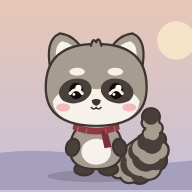
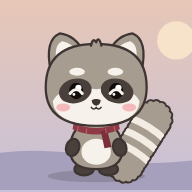
꼬리를 인형처럼 통통한 줄무늬 꼬리로
털색과 크림색 줄무늬가 번갈아 들어간 굵은 원통형 꼬리, 보송한 가장자리.

Claude-Session: https://claude.ai/code/session_018356KYRaA4nVB9yHaTF6Rt

Changed region(s): [[0.5625, 0.5, 0.9062, 0.9688]]

diff --git a/index.html b/index.html
@@ -123,7 +123,7 @@ h2{font-family:var(--font-display);font-weight:400;font-size:20px;margin:0;lette
 
 /* raccoon motion */
 #racc .body-g{transform-origin:100px 188px;animation:breathe 3.6s ease-in-out infinite}
-#racc .tail-g{transform-origin:122px 176px;animation:sway 4s ease-in-out infinite}
+#racc .tail-g{transform-origin:128px 178px;animation:sway 4s ease-in-out infinite}
 #racc.hop{animation:hop .55s cubic-bezier(.3,1.6,.5,1)}
 #racc .eyes-happy{display:none}
 #racc.happy .eyes-happy{display:inline}
@@ -170,8 +170,12 @@ h2{font-family:var(--font-display);font-weight:400;font-size:20px;margin:0;lette
       <ellipse cx="160" cy="214" rx="56" ry="7" fill="#000" opacity=".14"/>
       <g transform="translate(60 24)"><g id="racc">
         <g class="tail-g">
-          <g fill="#3E3532"><circle cx="120.9" cy="171.1" r="8.2"/><circle cx="120.0" cy="176.0" r="9.8"/><circle cx="125.5" cy="183.7" r="10.2"/><circle cx="126.3" cy="177.0" r="12.5"/><circle cx="132.3" cy="169.4" r="11.7"/><circle cx="132.1" cy="177.4" r="14.3"/><circle cx="138.0" cy="186.5" r="12.9"/><circle cx="137.4" cy="177.4" r="15.9"/><circle cx="140.4" cy="167.0" r="13.8"/><circle cx="142.2" cy="176.8" r="17.1"/><circle cx="150.0" cy="185.6" r="14.5"/><circle cx="146.6" cy="175.6" r="17.9"/><circle cx="145.5" cy="164.3" r="14.9"/><circle cx="150.6" cy="173.9" r="18.4"/><circle cx="160.7" cy="180.5" r="15.0"/><circle cx="154.0" cy="171.7" r="18.6"/><circle cx="149.0" cy="161.7" r="14.8"/><circle cx="157.0" cy="169.0" r="18.4"/><circle cx="168.3" cy="171.4" r="14.4"/><circle cx="159.5" cy="165.7" r="17.9"/><circle cx="152.5" cy="157.9" r="13.7"/><circle cx="161.6" cy="161.9" r="17.0"/><circle cx="171.8" cy="160.1" r="12.8"/><circle cx="163.1" cy="157.6" r="15.7"/><circle cx="156.4" cy="151.4" r="11.6"/><circle cx="164.2" cy="152.8" r="14.2"/><circle cx="171.5" cy="147.8" r="10.1"/><circle cx="164.9" cy="147.4" r="12.3"/><circle cx="160.1" cy="141.5" r="8.2"/><circle cx="165.1" cy="141.4" r="9.8"/><circle cx="169.7" cy="134.6" r="8.2"/><circle cx="164.8" cy="135.0" r="9.8"/><circle cx="159.1" cy="128.7" r="8.2"/><circle cx="164.0" cy="128.0" r="9.8"/><circle cx="163.0" cy="122.0" r="11.6"/></g>
-          <g><circle cx="120.9" cy="171.1" r="5.6" fill="#A79C90"/><circle cx="120.0" cy="176.0" r="7.2" fill="#A79C90"/><circle cx="125.5" cy="183.7" r="7.6" fill="#A79C90"/><circle cx="126.3" cy="177.0" r="9.9" fill="#A79C90"/><circle cx="132.3" cy="169.4" r="9.1" fill="#A79C90"/><circle cx="132.1" cy="177.4" r="11.7" fill="#A79C90"/><circle cx="138.0" cy="186.5" r="10.3" fill="#A79C90"/><circle cx="137.4" cy="177.4" r="13.3" fill="#A79C90"/><circle cx="140.4" cy="167.0" r="11.2" fill="#4A403B"/><circle cx="142.2" cy="176.8" r="14.5" fill="#4A403B"/><circle cx="150.0" cy="185.6" r="11.9" fill="#4A403B"/><circle cx="146.6" cy="175.6" r="15.3" fill="#4A403B"/><circle cx="145.5" cy="164.3" r="12.3" fill="#A79C90"/><circle cx="150.6" cy="173.9" r="15.8" fill="#A79C90"/><circle cx="160.7" cy="180.5" r="12.4" fill="#A79C90"/><circle cx="154.0" cy="171.7" r="16.0" fill="#A79C90"/><circle cx="149.0" cy="161.7" r="12.2" fill="#4A403B"/><circle cx="157.0" cy="169.0" r="15.8" fill="#4A403B"/><circle cx="168.3" cy="171.4" r="11.8" fill="#4A403B"/><circle cx="159.5" cy="165.7" r="15.3" fill="#4A403B"/><circle cx="152.5" cy="157.9" r="11.1" fill="#A79C90"/><circle cx="161.6" cy="161.9" r="14.4" fill="#A79C90"/><circle cx="171.8" cy="160.1" r="10.2" fill="#A79C90"/><circle cx="163.1" cy="157.6" r="13.1" fill="#A79C90"/><circle cx="156.4" cy="151.4" r="9.0" fill="#4A403B"/><circle cx="164.2" cy="152.8" r="11.6" fill="#4A403B"/><circle cx="171.5" cy="147.8" r="7.5" fill="#4A403B"/><circle cx="164.9" cy="147.4" r="9.7" fill="#4A403B"/><circle cx="160.1" cy="141.5" r="5.6" fill="#A79C90"/><circle cx="165.1" cy="141.4" r="7.2" fill="#A79C90"/><circle cx="169.7" cy="134.6" r="5.6" fill="#A79C90"/><circle cx="164.8" cy="135.0" r="7.2" fill="#A79C90"/><circle cx="159.1" cy="128.7" r="5.6" fill="#A79C90"/><circle cx="164.0" cy="128.0" r="7.2" fill="#A79C90"/><circle cx="163.0" cy="122.0" r="9.0" fill="#4A403B"/></g>
+          <g transform="translate(150 150) rotate(-58)">
+            <clipPath id="tailclip6"><circle cx="-31.0" cy="0.0" r="18.0"/><circle cx="-28.0" cy="0.0" r="18.0"/><circle cx="-25.0" cy="0.0" r="18.0"/><circle cx="-22.0" cy="0.0" r="18.0"/><circle cx="-19.0" cy="0.0" r="18.0"/><circle cx="-16.0" cy="0.0" r="18.0"/><circle cx="-13.0" cy="0.0" r="18.0"/><circle cx="-10.0" cy="0.0" r="18.0"/><circle cx="-7.0" cy="0.0" r="18.0"/><circle cx="-4.0" cy="0.0" r="18.0"/><circle cx="-1.0" cy="0.0" r="18.0"/><circle cx="2.0" cy="0.0" r="18.0"/><circle cx="5.0" cy="0.0" r="18.0"/><circle cx="8.0" cy="0.0" r="18.0"/><circle cx="11.0" cy="0.0" r="18.0"/><circle cx="14.0" cy="0.0" r="18.0"/><circle cx="17.0" cy="0.0" r="18.0"/><circle cx="20.0" cy="0.0" r="18.0"/><circle cx="23.0" cy="0.0" r="18.0"/><circle cx="26.0" cy="0.0" r="18.0"/><circle cx="29.0" cy="0.0" r="18.0"/><circle cx="-31.5" cy="16.0" r="4.2"/><circle cx="-30.9" cy="-16.0" r="4.2"/><circle cx="-26.3" cy="16.0" r="4.2"/><circle cx="-25.8" cy="-16.0" r="4.2"/><circle cx="-20.7" cy="16.0" r="4.2"/><circle cx="-21.9" cy="-16.0" r="4.2"/><circle cx="-17.0" cy="16.0" r="4.2"/><circle cx="-15.3" cy="-16.0" r="4.2"/><circle cx="-11.5" cy="16.0" r="4.2"/><circle cx="-11.5" cy="-16.0" r="4.2"/><circle cx="-5.0" cy="16.0" r="4.2"/><circle cx="-6.1" cy="-16.0" r="4.2"/><circle cx="-0.3" cy="16.0" r="4.2"/><circle cx="-1.0" cy="-16.0" r="4.2"/><circle cx="4.3" cy="16.0" r="4.2"/><circle cx="3.3" cy="-16.0" r="4.2"/><circle cx="9.3" cy="16.0" r="4.2"/><circle cx="9.7" cy="-16.0" r="4.2"/><circle cx="14.0" cy="16.0" r="4.2"/><circle cx="14.5" cy="-16.0" r="4.2"/><circle cx="19.3" cy="16.0" r="4.2"/><circle cx="18.1" cy="-16.0" r="4.2"/><circle cx="24.5" cy="16.0" r="4.2"/><circle cx="24.2" cy="-16.0" r="4.2"/><circle cx="28.6" cy="16.0" r="4.2"/><circle cx="28.1" cy="-16.0" r="4.2"/><circle cx="-31.0" cy="16.0" r="4.2"/><circle cx="31.0" cy="16.0" r="4.2"/><circle cx="-37.1" cy="14.8" r="4.2"/><circle cx="37.1" cy="14.8" r="4.2"/><circle cx="-42.3" cy="11.3" r="4.2"/><circle cx="42.3" cy="11.3" r="4.2"/><circle cx="-45.8" cy="6.1" r="4.2"/><circle cx="45.8" cy="6.1" r="4.2"/><circle cx="-47.0" cy="0.0" r="4.2"/><circle cx="47.0" cy="0.0" r="4.2"/><circle cx="-45.8" cy="-6.1" r="4.2"/><circle cx="45.8" cy="-6.1" r="4.2"/><circle cx="-42.3" cy="-11.3" r="4.2"/><circle cx="42.3" cy="-11.3" r="4.2"/><circle cx="-37.1" cy="-14.8" r="4.2"/><circle cx="37.1" cy="-14.8" r="4.2"/><circle cx="-31.0" cy="-16.0" r="4.2"/><circle cx="31.0" cy="-16.0" r="4.2"/></clipPath>
+            <g fill="#3E3532"><circle cx="-31.0" cy="0.0" r="20.4"/><circle cx="-28.0" cy="0.0" r="20.4"/><circle cx="-25.0" cy="0.0" r="20.4"/><circle cx="-22.0" cy="0.0" r="20.4"/><circle cx="-19.0" cy="0.0" r="20.4"/><circle cx="-16.0" cy="0.0" r="20.4"/><circle cx="-13.0" cy="0.0" r="20.4"/><circle cx="-10.0" cy="0.0" r="20.4"/><circle cx="-7.0" cy="0.0" r="20.4"/><circle cx="-4.0" cy="0.0" r="20.4"/><circle cx="-1.0" cy="0.0" r="20.4"/><circle cx="2.0" cy="0.0" r="20.4"/><circle cx="5.0" cy="0.0" r="20.4"/><circle cx="8.0" cy="0.0" r="20.4"/><circle cx="11.0" cy="0.0" r="20.4"/><circle cx="14.0" cy="0.0" r="20.4"/><circle cx="17.0" cy="0.0" r="20.4"/><circle cx="20.0" cy="0.0" r="20.4"/><circle cx="23.0" cy="0.0" r="20.4"/><circle cx="26.0" cy="0.0" r="20.4"/><circle cx="29.0" cy="0.0" r="20.4"/><circle cx="-31.5" cy="16.0" r="6.6"/><circle cx="-30.9" cy="-16.0" r="6.6"/><circle cx="-26.3" cy="16.0" r="6.6"/><circle cx="-25.8" cy="-16.0" r="6.6"/><circle cx="-20.7" cy="16.0" r="6.6"/><circle cx="-21.9" cy="-16.0" r="6.6"/><circle cx="-17.0" cy="16.0" r="6.6"/><circle cx="-15.3" cy="-16.0" r="6.6"/><circle cx="-11.5" cy="16.0" r="6.6"/><circle cx="-11.5" cy="-16.0" r="6.6"/><circle cx="-5.0" cy="16.0" r="6.6"/><circle cx="-6.1" cy="-16.0" r="6.6"/><circle cx="-0.3" cy="16.0" r="6.6"/><circle cx="-1.0" cy="-16.0" r="6.6"/><circle cx="4.3" cy="16.0" r="6.6"/><circle cx="3.3" cy="-16.0" r="6.6"/><circle cx="9.3" cy="16.0" r="6.6"/><circle cx="9.7" cy="-16.0" r="6.6"/><circle cx="14.0" cy="16.0" r="6.6"/><circle cx="14.5" cy="-16.0" r="6.6"/><circle cx="19.3" cy="16.0" r="6.6"/><circle cx="18.1" cy="-16.0" r="6.6"/><circle cx="24.5" cy="16.0" r="6.6"/><circle cx="24.2" cy="-16.0" r="6.6"/><circle cx="28.6" cy="16.0" r="6.6"/><circle cx="28.1" cy="-16.0" r="6.6"/><circle cx="-31.0" cy="16.0" r="6.6"/><circle cx="31.0" cy="16.0" r="6.6"/><circle cx="-37.1" cy="14.8" r="6.6"/><circle cx="37.1" cy="14.8" r="6.6"/><circle cx="-42.3" cy="11.3" r="6.6"/><circle cx="42.3" cy="11.3" r="6.6"/><circle cx="-45.8" cy="6.1" r="6.6"/><circle cx="45.8" cy="6.1" r="6.6"/><circle cx="-47.0" cy="0.0" r="6.6"/><circle cx="47.0" cy="0.0" r="6.6"/><circle cx="-45.8" cy="-6.1" r="6.6"/><circle cx="45.8" cy="-6.1" r="6.6"/><circle cx="-42.3" cy="-11.3" r="6.6"/><circle cx="42.3" cy="-11.3" r="6.6"/><circle cx="-37.1" cy="-14.8" r="6.6"/><circle cx="37.1" cy="-14.8" r="6.6"/><circle cx="-31.0" cy="-16.0" r="6.6"/><circle cx="31.0" cy="-16.0" r="6.6"/></g>
+            <g fill="#A79C90"><circle cx="-31.0" cy="0.0" r="18.0"/><circle cx="-28.0" cy="0.0" r="18.0"/><circle cx="-25.0" cy="0.0" r="18.0"/><circle cx="-22.0" cy="0.0" r="18.0"/><circle cx="-19.0" cy="0.0" r="18.0"/><circle cx="-16.0" cy="0.0" r="18.0"/><circle cx="-13.0" cy="0.0" r="18.0"/><circle cx="-10.0" cy="0.0" r="18.0"/><circle cx="-7.0" cy="0.0" r="18.0"/><circle cx="-4.0" cy="0.0" r="18.0"/><circle cx="-1.0" cy="0.0" r="18.0"/><circle cx="2.0" cy="0.0" r="18.0"/><circle cx="5.0" cy="0.0" r="18.0"/><circle cx="8.0" cy="0.0" r="18.0"/><circle cx="11.0" cy="0.0" r="18.0"/><circle cx="14.0" cy="0.0" r="18.0"/><circle cx="17.0" cy="0.0" r="18.0"/><circle cx="20.0" cy="0.0" r="18.0"/><circle cx="23.0" cy="0.0" r="18.0"/><circle cx="26.0" cy="0.0" r="18.0"/><circle cx="29.0" cy="0.0" r="18.0"/><circle cx="-31.5" cy="16.0" r="4.2"/><circle cx="-30.9" cy="-16.0" r="4.2"/><circle cx="-26.3" cy="16.0" r="4.2"/><circle cx="-25.8" cy="-16.0" r="4.2"/><circle cx="-20.7" cy="16.0" r="4.2"/><circle cx="-21.9" cy="-16.0" r="4.2"/><circle cx="-17.0" cy="16.0" r="4.2"/><circle cx="-15.3" cy="-16.0" r="4.2"/><circle cx="-11.5" cy="16.0" r="4.2"/><circle cx="-11.5" cy="-16.0" r="4.2"/><circle cx="-5.0" cy="16.0" r="4.2"/><circle cx="-6.1" cy="-16.0" r="4.2"/><circle cx="-0.3" cy="16.0" r="4.2"/><circle cx="-1.0" cy="-16.0" r="4.2"/><circle cx="4.3" cy="16.0" r="4.2"/><circle cx="3.3" cy="-16.0" r="4.2"/><circle cx="9.3" cy="16.0" r="4.2"/><circle cx="9.7" cy="-16.0" r="4.2"/><circle cx="14.0" cy="16.0" r="4.2"/><circle cx="14.5" cy="-16.0" r="4.2"/><circle cx="19.3" cy="16.0" r="4.2"/><circle cx="18.1" cy="-16.0" r="4.2"/><circle cx="24.5" cy="16.0" r="4.2"/><circle cx="24.2" cy="-16.0" r="4.2"/><circle cx="28.6" cy="16.0" r="4.2"/><circle cx="28.1" cy="-16.0" r="4.2"/><circle cx="-31.0" cy="16.0" r="4.2"/><circle cx="31.0" cy="16.0" r="4.2"/><circle cx="-37.1" cy="14.8" r="4.2"/><circle cx="37.1" cy="14.8" r="4.2"/><circle cx="-42.3" cy="11.3" r="4.2"/><circle cx="42.3" cy="11.3" r="4.2"/><circle cx="-45.8" cy="6.1" r="4.2"/><circle cx="45.8" cy="6.1" r="4.2"/><circle cx="-47.0" cy="0.0" r="4.2"/><circle cx="47.0" cy="0.0" r="4.2"/><circle cx="-45.8" cy="-6.1" r="4.2"/><circle cx="45.8" cy="-6.1" r="4.2"/><circle cx="-42.3" cy="-11.3" r="4.2"/><circle cx="42.3" cy="-11.3" r="4.2"/><circle cx="-37.1" cy="-14.8" r="4.2"/><circle cx="37.1" cy="-14.8" r="4.2"/><circle cx="-31.0" cy="-16.0" r="4.2"/><circle cx="31.0" cy="-16.0" r="4.2"/></g>
+            <g clip-path="url(#tailclip6)" fill="#F3ECE2"><path d="M-19 -24 Q-14 0 -19 24 L-11 24 Q-6 0 -11 -24Z"/><path d="M-3 -24 Q2 0 -3 24 L5 24 Q10 0 5 -24Z"/><path d="M13 -24 Q18 0 13 24 L21 24 Q26 0 21 -24Z"/></g>
+          </g>
         </g>
         <g class="body-g">
           <ellipse cx="86" cy="182" rx="11" ry="7" fill="#4A403B" stroke="#3E3532" stroke-width="2.6" stroke-linejoin="round"/><ellipse cx="114" cy="182" rx="11" ry="7" fill="#4A403B" stroke="#3E3532" stroke-width="2.6" stroke-linejoin="round"/>

diff --git a/src/app.html b/src/app.html
@@ -112,7 +112,7 @@ h2{font-family:var(--font-display);font-weight:400;font-size:20px;margin:0;lette
 
 /* raccoon motion */
 #racc .body-g{transform-origin:100px 188px;animation:breathe 3.6s ease-in-out infinite}
-#racc .tail-g{transform-origin:122px 176px;animation:sway 4s ease-in-out infinite}
+#racc .tail-g{transform-origin:128px 178px;animation:sway 4s ease-in-out infinite}
 #racc.hop{animation:hop .55s cubic-bezier(.3,1.6,.5,1)}
 #racc .eyes-happy{display:none}
 #racc.happy .eyes-happy{display:inline}
@@ -159,8 +159,12 @@ h2{font-family:var(--font-display);font-weight:400;font-size:20px;margin:0;lette
       <ellipse cx="160" cy="214" rx="56" ry="7" fill="#000" opacity=".14"/>
       <g transform="translate(60 24)"><g id="racc">
         <g class="tail-g">
-          <g fill="#3E3532"><circle cx="120.9" cy="171.1" r="8.2"/><circle cx="120.0" cy="176.0" r="9.8"/><circle cx="125.5" cy="183.7" r="10.2"/><circle cx="126.3" cy="177.0" r="12.5"/><circle cx="132.3" cy="169.4" r="11.7"/><circle cx="132.1" cy="177.4" r="14.3"/><circle cx="138.0" cy="186.5" r="12.9"/><circle cx="137.4" cy="177.4" r="15.9"/><circle cx="140.4" cy="167.0" r="13.8"/><circle cx="142.2" cy="176.8" r="17.1"/><circle cx="150.0" cy="185.6" r="14.5"/><circle cx="146.6" cy="175.6" r="17.9"/><circle cx="145.5" cy="164.3" r="14.9"/><circle cx="150.6" cy="173.9" r="18.4"/><circle cx="160.7" cy="180.5" r="15.0"/><circle cx="154.0" cy="171.7" r="18.6"/><circle cx="149.0" cy="161.7" r="14.8"/><circle cx="157.0" cy="169.0" r="18.4"/><circle cx="168.3" cy="171.4" r="14.4"/><circle cx="159.5" cy="165.7" r="17.9"/><circle cx="152.5" cy="157.9" r="13.7"/><circle cx="161.6" cy="161.9" r="17.0"/><circle cx="171.8" cy="160.1" r="12.8"/><circle cx="163.1" cy="157.6" r="15.7"/><circle cx="156.4" cy="151.4" r="11.6"/><circle cx="164.2" cy="152.8" r="14.2"/><circle cx="171.5" cy="147.8" r="10.1"/><circle cx="164.9" cy="147.4" r="12.3"/><circle cx="160.1" cy="141.5" r="8.2"/><circle cx="165.1" cy="141.4" r="9.8"/><circle cx="169.7" cy="134.6" r="8.2"/><circle cx="164.8" cy="135.0" r="9.8"/><circle cx="159.1" cy="128.7" r="8.2"/><circle cx="164.0" cy="128.0" r="9.8"/><circle cx="163.0" cy="122.0" r="11.6"/></g>
-          <g><circle cx="120.9" cy="171.1" r="5.6" fill="#A79C90"/><circle cx="120.0" cy="176.0" r="7.2" fill="#A79C90"/><circle cx="125.5" cy="183.7" r="7.6" fill="#A79C90"/><circle cx="126.3" cy="177.0" r="9.9" fill="#A79C90"/><circle cx="132.3" cy="169.4" r="9.1" fill="#A79C90"/><circle cx="132.1" cy="177.4" r="11.7" fill="#A79C90"/><circle cx="138.0" cy="186.5" r="10.3" fill="#A79C90"/><circle cx="137.4" cy="177.4" r="13.3" fill="#A79C90"/><circle cx="140.4" cy="167.0" r="11.2" fill="#4A403B"/><circle cx="142.2" cy="176.8" r="14.5" fill="#4A403B"/><circle cx="150.0" cy="185.6" r="11.9" fill="#4A403B"/><circle cx="146.6" cy="175.6" r="15.3" fill="#4A403B"/><circle cx="145.5" cy="164.3" r="12.3" fill="#A79C90"/><circle cx="150.6" cy="173.9" r="15.8" fill="#A79C90"/><circle cx="160.7" cy="180.5" r="12.4" fill="#A79C90"/><circle cx="154.0" cy="171.7" r="16.0" fill="#A79C90"/><circle cx="149.0" cy="161.7" r="12.2" fill="#4A403B"/><circle cx="157.0" cy="169.0" r="15.8" fill="#4A403B"/><circle cx="168.3" cy="171.4" r="11.8" fill="#4A403B"/><circle cx="159.5" cy="165.7" r="15.3" fill="#4A403B"/><circle cx="152.5" cy="157.9" r="11.1" fill="#A79C90"/><circle cx="161.6" cy="161.9" r="14.4" fill="#A79C90"/><circle cx="171.8" cy="160.1" r="10.2" fill="#A79C90"/><circle cx="163.1" cy="157.6" r="13.1" fill="#A79C90"/><circle cx="156.4" cy="151.4" r="9.0" fill="#4A403B"/><circle cx="164.2" cy="152.8" r="11.6" fill="#4A403B"/><circle cx="171.5" cy="147.8" r="7.5" fill="#4A403B"/><circle cx="164.9" cy="147.4" r="9.7" fill="#4A403B"/><circle cx="160.1" cy="141.5" r="5.6" fill="#A79C90"/><circle cx="165.1" cy="141.4" r="7.2" fill="#A79C90"/><circle cx="169.7" cy="134.6" r="5.6" fill="#A79C90"/><circle cx="164.8" cy="135.0" r="7.2" fill="#A79C90"/><circle cx="159.1" cy="128.7" r="5.6" fill="#A79C90"/><circle cx="164.0" cy="128.0" r="7.2" fill="#A79C90"/><circle cx="163.0" cy="122.0" r="9.0" fill="#4A403B"/></g>
+          <g transform="translate(150 150) rotate(-58)">
+            <clipPath id="tailclip6"><circle cx="-31.0" cy="0.0" r="18.0"/><circle cx="-28.0" cy="0.0" r="18.0"/><circle cx="-25.0" cy="0.0" r="18.0"/><circle cx="-22.0" cy="0.0" r="18.0"/><circle cx="-19.0" cy="0.0" r="18.0"/><circle cx="-16.0" cy="0.0" r="18.0"/><circle cx="-13.0" cy="0.0" r="18.0"/><circle cx="-10.0" cy="0.0" r="18.0"/><circle cx="-7.0" cy="0.0" r="18.0"/><circle cx="-4.0" cy="0.0" r="18.0"/><circle cx="-1.0" cy="0.0" r="18.0"/><circle cx="2.0" cy="0.0" r="18.0"/><circle cx="5.0" cy="0.0" r="18.0"/><circle cx="8.0" cy="0.0" r="18.0"/><circle cx="11.0" cy="0.0" r="18.0"/><circle cx="14.0" cy="0.0" r="18.0"/><circle cx="17.0" cy="0.0" r="18.0"/><circle cx="20.0" cy="0.0" r="18.0"/><circle cx="23.0" cy="0.0" r="18.0"/><circle cx="26.0" cy="0.0" r="18.0"/><circle cx="29.0" cy="0.0" r="18.0"/><circle cx="-31.5" cy="16.0" r="4.2"/><circle cx="-30.9" cy="-16.0" r="4.2"/><circle cx="-26.3" cy="16.0" r="4.2"/><circle cx="-25.8" cy="-16.0" r="4.2"/><circle cx="-20.7" cy="16.0" r="4.2"/><circle cx="-21.9" cy="-16.0" r="4.2"/><circle cx="-17.0" cy="16.0" r="4.2"/><circle cx="-15.3" cy="-16.0" r="4.2"/><circle cx="-11.5" cy="16.0" r="4.2"/><circle cx="-11.5" cy="-16.0" r="4.2"/><circle cx="-5.0" cy="16.0" r="4.2"/><circle cx="-6.1" cy="-16.0" r="4.2"/><circle cx="-0.3" cy="16.0" r="4.2"/><circle cx="-1.0" cy="-16.0" r="4.2"/><circle cx="4.3" cy="16.0" r="4.2"/><circle cx="3.3" cy="-16.0" r="4.2"/><circle cx="9.3" cy="16.0" r="4.2"/><circle cx="9.7" cy="-16.0" r="4.2"/><circle cx="14.0" cy="16.0" r="4.2"/><circle cx="14.5" cy="-16.0" r="4.2"/><circle cx="19.3" cy="16.0" r="4.2"/><circle cx="18.1" cy="-16.0" r="4.2"/><circle cx="24.5" cy="16.0" r="4.2"/><circle cx="24.2" cy="-16.0" r="4.2"/><circle cx="28.6" cy="16.0" r="4.2"/><circle cx="28.1" cy="-16.0" r="4.2"/><circle cx="-31.0" cy="16.0" r="4.2"/><circle cx="31.0" cy="16.0" r="4.2"/><circle cx="-37.1" cy="14.8" r="4.2"/><circle cx="37.1" cy="14.8" r="4.2"/><circle cx="-42.3" cy="11.3" r="4.2"/><circle cx="42.3" cy="11.3" r="4.2"/><circle cx="-45.8" cy="6.1" r="4.2"/><circle cx="45.8" cy="6.1" r="4.2"/><circle cx="-47.0" cy="0.0" r="4.2"/><circle cx="47.0" cy="0.0" r="4.2"/><circle cx="-45.8" cy="-6.1" r="4.2"/><circle cx="45.8" cy="-6.1" r="4.2"/><circle cx="-42.3" cy="-11.3" r="4.2"/><circle cx="42.3" cy="-11.3" r="4.2"/><circle cx="-37.1" cy="-14.8" r="4.2"/><circle cx="37.1" cy="-14.8" r="4.2"/><circle cx="-31.0" cy="-16.0" r="4.2"/><circle cx="31.0" cy="-16.0" r="4.2"/></clipPath>
+            <g fill="#3E3532"><circle cx="-31.0" cy="0.0" r="20.4"/><circle cx="-28.0" cy="0.0" r="20.4"/><circle cx="-25.0" cy="0.0" r="20.4"/><circle cx="-22.0" cy="0.0" r="20.4"/><circle cx="-19.0" cy="0.0" r="20.4"/><circle cx="-16.0" cy="0.0" r="20.4"/><circle cx="-13.0" cy="0.0" r="20.4"/><circle cx="-10.0" cy="0.0" r="20.4"/><circle cx="-7.0" cy="0.0" r="20.4"/><circle cx="-4.0" cy="0.0" r="20.4"/><circle cx="-1.0" cy="0.0" r="20.4"/><circle cx="2.0" cy="0.0" r="20.4"/><circle cx="5.0" cy="0.0" r="20.4"/><circle cx="8.0" cy="0.0" r="20.4"/><circle cx="11.0" cy="0.0" r="20.4"/><circle cx="14.0" cy="0.0" r="20.4"/><circle cx="17.0" cy="0.0" r="20.4"/><circle cx="20.0" cy="0.0" r="20.4"/><circle cx="23.0" cy="0.0" r="20.4"/><circle cx="26.0" cy="0.0" r="20.4"/><circle cx="29.0" cy="0.0" r="20.4"/><circle cx="-31.5" cy="16.0" r="6.6"/><circle cx="-30.9" cy="-16.0" r="6.6"/><circle cx="-26.3" cy="16.0" r="6.6"/><circle cx="-25.8" cy="-16.0" r="6.6"/><circle cx="-20.7" cy="16.0" r="6.6"/><circle cx="-21.9" cy="-16.0" r="6.6"/><circle cx="-17.0" cy="16.0" r="6.6"/><circle cx="-15.3" cy="-16.0" r="6.6"/><circle cx="-11.5" cy="16.0" r="6.6"/><circle cx="-11.5" cy="-16.0" r="6.6"/><circle cx="-5.0" cy="16.0" r="6.6"/><circle cx="-6.1" cy="-16.0" r="6.6"/><circle cx="-0.3" cy="16.0" r="6.6"/><circle cx="-1.0" cy="-16.0" r="6.6"/><circle cx="4.3" cy="16.0" r="6.6"/><circle cx="3.3" cy="-16.0" r="6.6"/><circle cx="9.3" cy="16.0" r="6.6"/><circle cx="9.7" cy="-16.0" r="6.6"/><circle cx="14.0" cy="16.0" r="6.6"/><circle cx="14.5" cy="-16.0" r="6.6"/><circle cx="19.3" cy="16.0" r="6.6"/><circle cx="18.1" cy="-16.0" r="6.6"/><circle cx="24.5" cy="16.0" r="6.6"/><circle cx="24.2" cy="-16.0" r="6.6"/><circle cx="28.6" cy="16.0" r="6.6"/><circle cx="28.1" cy="-16.0" r="6.6"/><circle cx="-31.0" cy="16.0" r="6.6"/><circle cx="31.0" cy="16.0" r="6.6"/><circle cx="-37.1" cy="14.8" r="6.6"/><circle cx="37.1" cy="14.8" r="6.6"/><circle cx="-42.3" cy="11.3" r="6.6"/><circle cx="42.3" cy="11.3" r="6.6"/><circle cx="-45.8" cy="6.1" r="6.6"/><circle cx="45.8" cy="6.1" r="6.6"/><circle cx="-47.0" cy="0.0" r="6.6"/><circle cx="47.0" cy="0.0" r="6.6"/><circle cx="-45.8" cy="-6.1" r="6.6"/><circle cx="45.8" cy="-6.1" r="6.6"/><circle cx="-42.3" cy="-11.3" r="6.6"/><circle cx="42.3" cy="-11.3" r="6.6"/><circle cx="-37.1" cy="-14.8" r="6.6"/><circle cx="37.1" cy="-14.8" r="6.6"/><circle cx="-31.0" cy="-16.0" r="6.6"/><circle cx="31.0" cy="-16.0" r="6.6"/></g>
+            <g fill="#A79C90"><circle cx="-31.0" cy="0.0" r="18.0"/><circle cx="-28.0" cy="0.0" r="18.0"/><circle cx="-25.0" cy="0.0" r="18.0"/><circle cx="-22.0" cy="0.0" r="18.0"/><circle cx="-19.0" cy="0.0" r="18.0"/><circle cx="-16.0" cy="0.0" r="18.0"/><circle cx="-13.0" cy="0.0" r="18.0"/><circle cx="-10.0" cy="0.0" r="18.0"/><circle cx="-7.0" cy="0.0" r="18.0"/><circle cx="-4.0" cy="0.0" r="18.0"/><circle cx="-1.0" cy="0.0" r="18.0"/><circle cx="2.0" cy="0.0" r="18.0"/><circle cx="5.0" cy="0.0" r="18.0"/><circle cx="8.0" cy="0.0" r="18.0"/><circle cx="11.0" cy="0.0" r="18.0"/><circle cx="14.0" cy="0.0" r="18.0"/><circle cx="17.0" cy="0.0" r="18.0"/><circle cx="20.0" cy="0.0" r="18.0"/><circle cx="23.0" cy="0.0" r="18.0"/><circle cx="26.0" cy="0.0" r="18.0"/><circle cx="29.0" cy="0.0" r="18.0"/><circle cx="-31.5" cy="16.0" r="4.2"/><circle cx="-30.9" cy="-16.0" r="4.2"/><circle cx="-26.3" cy="16.0" r="4.2"/><circle cx="-25.8" cy="-16.0" r="4.2"/><circle cx="-20.7" cy="16.0" r="4.2"/><circle cx="-21.9" cy="-16.0" r="4.2"/><circle cx="-17.0" cy="16.0" r="4.2"/><circle cx="-15.3" cy="-16.0" r="4.2"/><circle cx="-11.5" cy="16.0" r="4.2"/><circle cx="-11.5" cy="-16.0" r="4.2"/><circle cx="-5.0" cy="16.0" r="4.2"/><circle cx="-6.1" cy="-16.0" r="4.2"/><circle cx="-0.3" cy="16.0" r="4.2"/><circle cx="-1.0" cy="-16.0" r="4.2"/><circle cx="4.3" cy="16.0" r="4.2"/><circle cx="3.3" cy="-16.0" r="4.2"/><circle cx="9.3" cy="16.0" r="4.2"/><circle cx="9.7" cy="-16.0" r="4.2"/><circle cx="14.0" cy="16.0" r="4.2"/><circle cx="14.5" cy="-16.0" r="4.2"/><circle cx="19.3" cy="16.0" r="4.2"/><circle cx="18.1" cy="-16.0" r="4.2"/><circle cx="24.5" cy="16.0" r="4.2"/><circle cx="24.2" cy="-16.0" r="4.2"/><circle cx="28.6" cy="16.0" r="4.2"/><circle cx="28.1" cy="-16.0" r="4.2"/><circle cx="-31.0" cy="16.0" r="4.2"/><circle cx="31.0" cy="16.0" r="4.2"/><circle cx="-37.1" cy="14.8" r="4.2"/><circle cx="37.1" cy="14.8" r="4.2"/><circle cx="-42.3" cy="11.3" r="4.2"/><circle cx="42.3" cy="11.3" r="4.2"/><circle cx="-45.8" cy="6.1" r="4.2"/><circle cx="45.8" cy="6.1" r="4.2"/><circle cx="-47.0" cy="0.0" r="4.2"/><circle cx="47.0" cy="0.0" r="4.2"/><circle cx="-45.8" cy="-6.1" r="4.2"/><circle cx="45.8" cy="-6.1" r="4.2"/><circle cx="-42.3" cy="-11.3" r="4.2"/><circle cx="42.3" cy="-11.3" r="4.2"/><circle cx="-37.1" cy="-14.8" r="4.2"/><circle cx="37.1" cy="-14.8" r="4.2"/><circle cx="-31.0" cy="-16.0" r="4.2"/><circle cx="31.0" cy="-16.0" r="4.2"/></g>
+            <g clip-path="url(#tailclip6)" fill="#F3ECE2"><path d="M-19 -24 Q-14 0 -19 24 L-11 24 Q-6 0 -11 -24Z"/><path d="M-3 -24 Q2 0 -3 24 L5 24 Q10 0 5 -24Z"/><path d="M13 -24 Q18 0 13 24 L21 24 Q26 0 21 -24Z"/></g>
+          </g>
         </g>
         <g class="body-g">
           <ellipse cx="86" cy="182" rx="11" ry="7" fill="#4A403B" stroke="#3E3532" stroke-width="2.6" stroke-linejoin="round"/><ellipse cx="114" cy="182" rx="11" ry="7" fill="#4A403B" stroke="#3E3532" stroke-width="2.6" stroke-linejoin="round"/>
